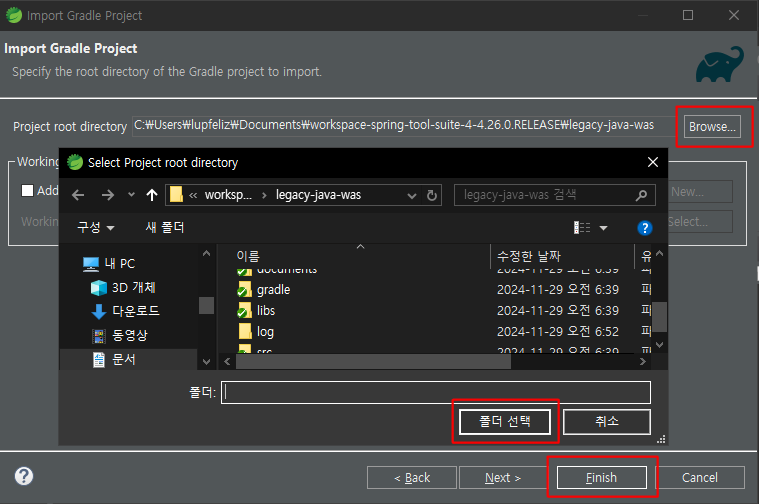
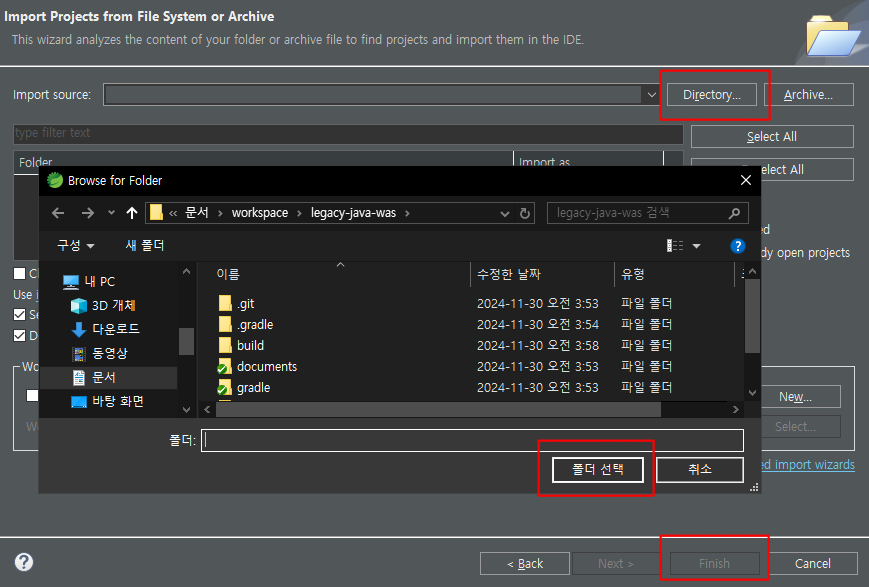
설치문서 내용추가 (JDK, Lombok설치, STS 에서 프로젝트 import 등)

diff --git a/documents/02-environment.md b/documents/02-environment.md
@@ -3,9 +3,49 @@
 
 ### 1. 확인 및 준비사항
 
-`JDK-1.8` 설치
+윈도우에서 `설정` → `시스템` → `정보` → `고급 시스템 설정` 을 클릭하여 `시스템 속성` 창을 띄운다
 
-`STS` 설치
+![](./02-environment-001.png)
+
+![](./02-environment-002.png)
+
+![](./02-environment-003.png)
+
+하단의 `환경 변수` → `새로 만들기` 버튼을 클릭하고 `변수 이름` 과 `변수 값` 에 아래 항목을 기재하여 `JAVA_HOME` 환경변수를 셋팅한다.
+
+![](./02-environment-012.png)
+
+같은 방법으로 `PATH` 변수에 `java.exe` 파일이 위치한 경로를 추가입력해 준다.
+
+![](./02-environment-013.png)
+
+jdk 버젼을 확인한다.
+
+<!--[-------------------------------------------------------------------------->
+```bash
+> java -version
+
+java version "1.8.0_65"
+Java(TM) SE Runtime Environment (build 1.8.0_65-b17)
+Java HotSpot(TM) 64-Bit Server VM (build 25.65-b01, mixed mode)
+```
+<!--]-------------------------------------------------------------------------->
+
+`lombok.jar` 파일을 이클립스 (STS) 디렉토리에 복사한다.
+
+![](./02-environment-010.png)
+
+`java -jar lombok.jar` 명령을 실행한다.
+
+<!--[-------------------------------------------------------------------------->
+```bash
+> java -jar lombok.jar
+```
+<!--]-------------------------------------------------------------------------->
+
+`Specify location` → `이클립스 설치위치 선택` → `실행파일 선택` → `Select` → `Install / Update` 순으로 클릭한다
+
+![](./02-environment-011.png)
 
 ### 2. 프로젝트 내려받기
 
@@ -31,15 +71,7 @@ Resolving deltas: 100% (998/998), done.
 
 NEXUS 서버의 주소는 `192.168.0.2` 포트번호는 `8081` 이라고 가정한다. (`maven-public`, `maven-plugin` 리포지터리 사용)
 
-윈도우에서 `설정` → `시스템` → `정보` → `고급 시스템 설정` 을 클릭하여 `시스템 속성` 창을 띄운다
-
-![](./02-environment-001.png)
-
-![](./02-environment-002.png)
-
-![](./02-environment-003.png)
-
-하단의 `환경 변수` → `새로 만들기` 버튼을 클릭하고 `변수 이름` 과 `변수 값` 에 아래 항목을 기재하여 환경변수를 셋팅한다.
+윈도우에서 `설정` → `시스템` → `정보` → `고급 시스템 설정` → `시스템 속성` → `환경 변수` → `새로 만들기` 버튼을 클릭하고 `변수 이름` 과 `변수 값` 에 아래 항목을 기재하여 환경변수를 셋팅한다.
 
 - 변수이름 : `NEXUS_MAVEN_REPO` / 변수값 : `http://192.168.0.2:8081/repository/maven-public/`
 - 변수이름 : `NEXUS_PLUGIN_REPO` / 변수값 : `http://192.168.0.2:8081/repository/maven-plugins/`
@@ -84,7 +116,7 @@ BUILD SUCCESSFUL in 17s
 
 이클립스가 실행중이라면 재시작 한다.
 
-`file` → `import` → `Existing Gradle Project` → `Next` → `폴더선택` → `Finish` 클릭
+`file` → `import` → `General` → `Projects from Folder or Archive` → `Next` → `Directory` →`폴더선택` → `Finish` 클릭
 
 ![](./02-environment-005.png)
 
@@ -92,10 +124,14 @@ BUILD SUCCESSFUL in 17s
 
 ![](./02-environment-007.png)
 
+이후 빌드가 완료될 때까지 대기한다.
+
 ### 6. 구동 및 프로파일 변경
 
 정상적으로 import / 빌드 되었다면 `Spring Dashboard` 항목 하단에 `legacy-java-was` 가 생성된다
 
-오른쪽 버튼 클릭후 `(Re)start` 선택하면 프로젝트가 구동된다
+오른쪽 버튼 클릭후 `(Re)start` 선택하면 프로젝트가 구동되며, 브라우저에서 `http://localhost:8080` 으로 결과 확인이 가능하다.
 
 ![](./02-environment-008.png)
+
+![](./02-environment-009.png)
